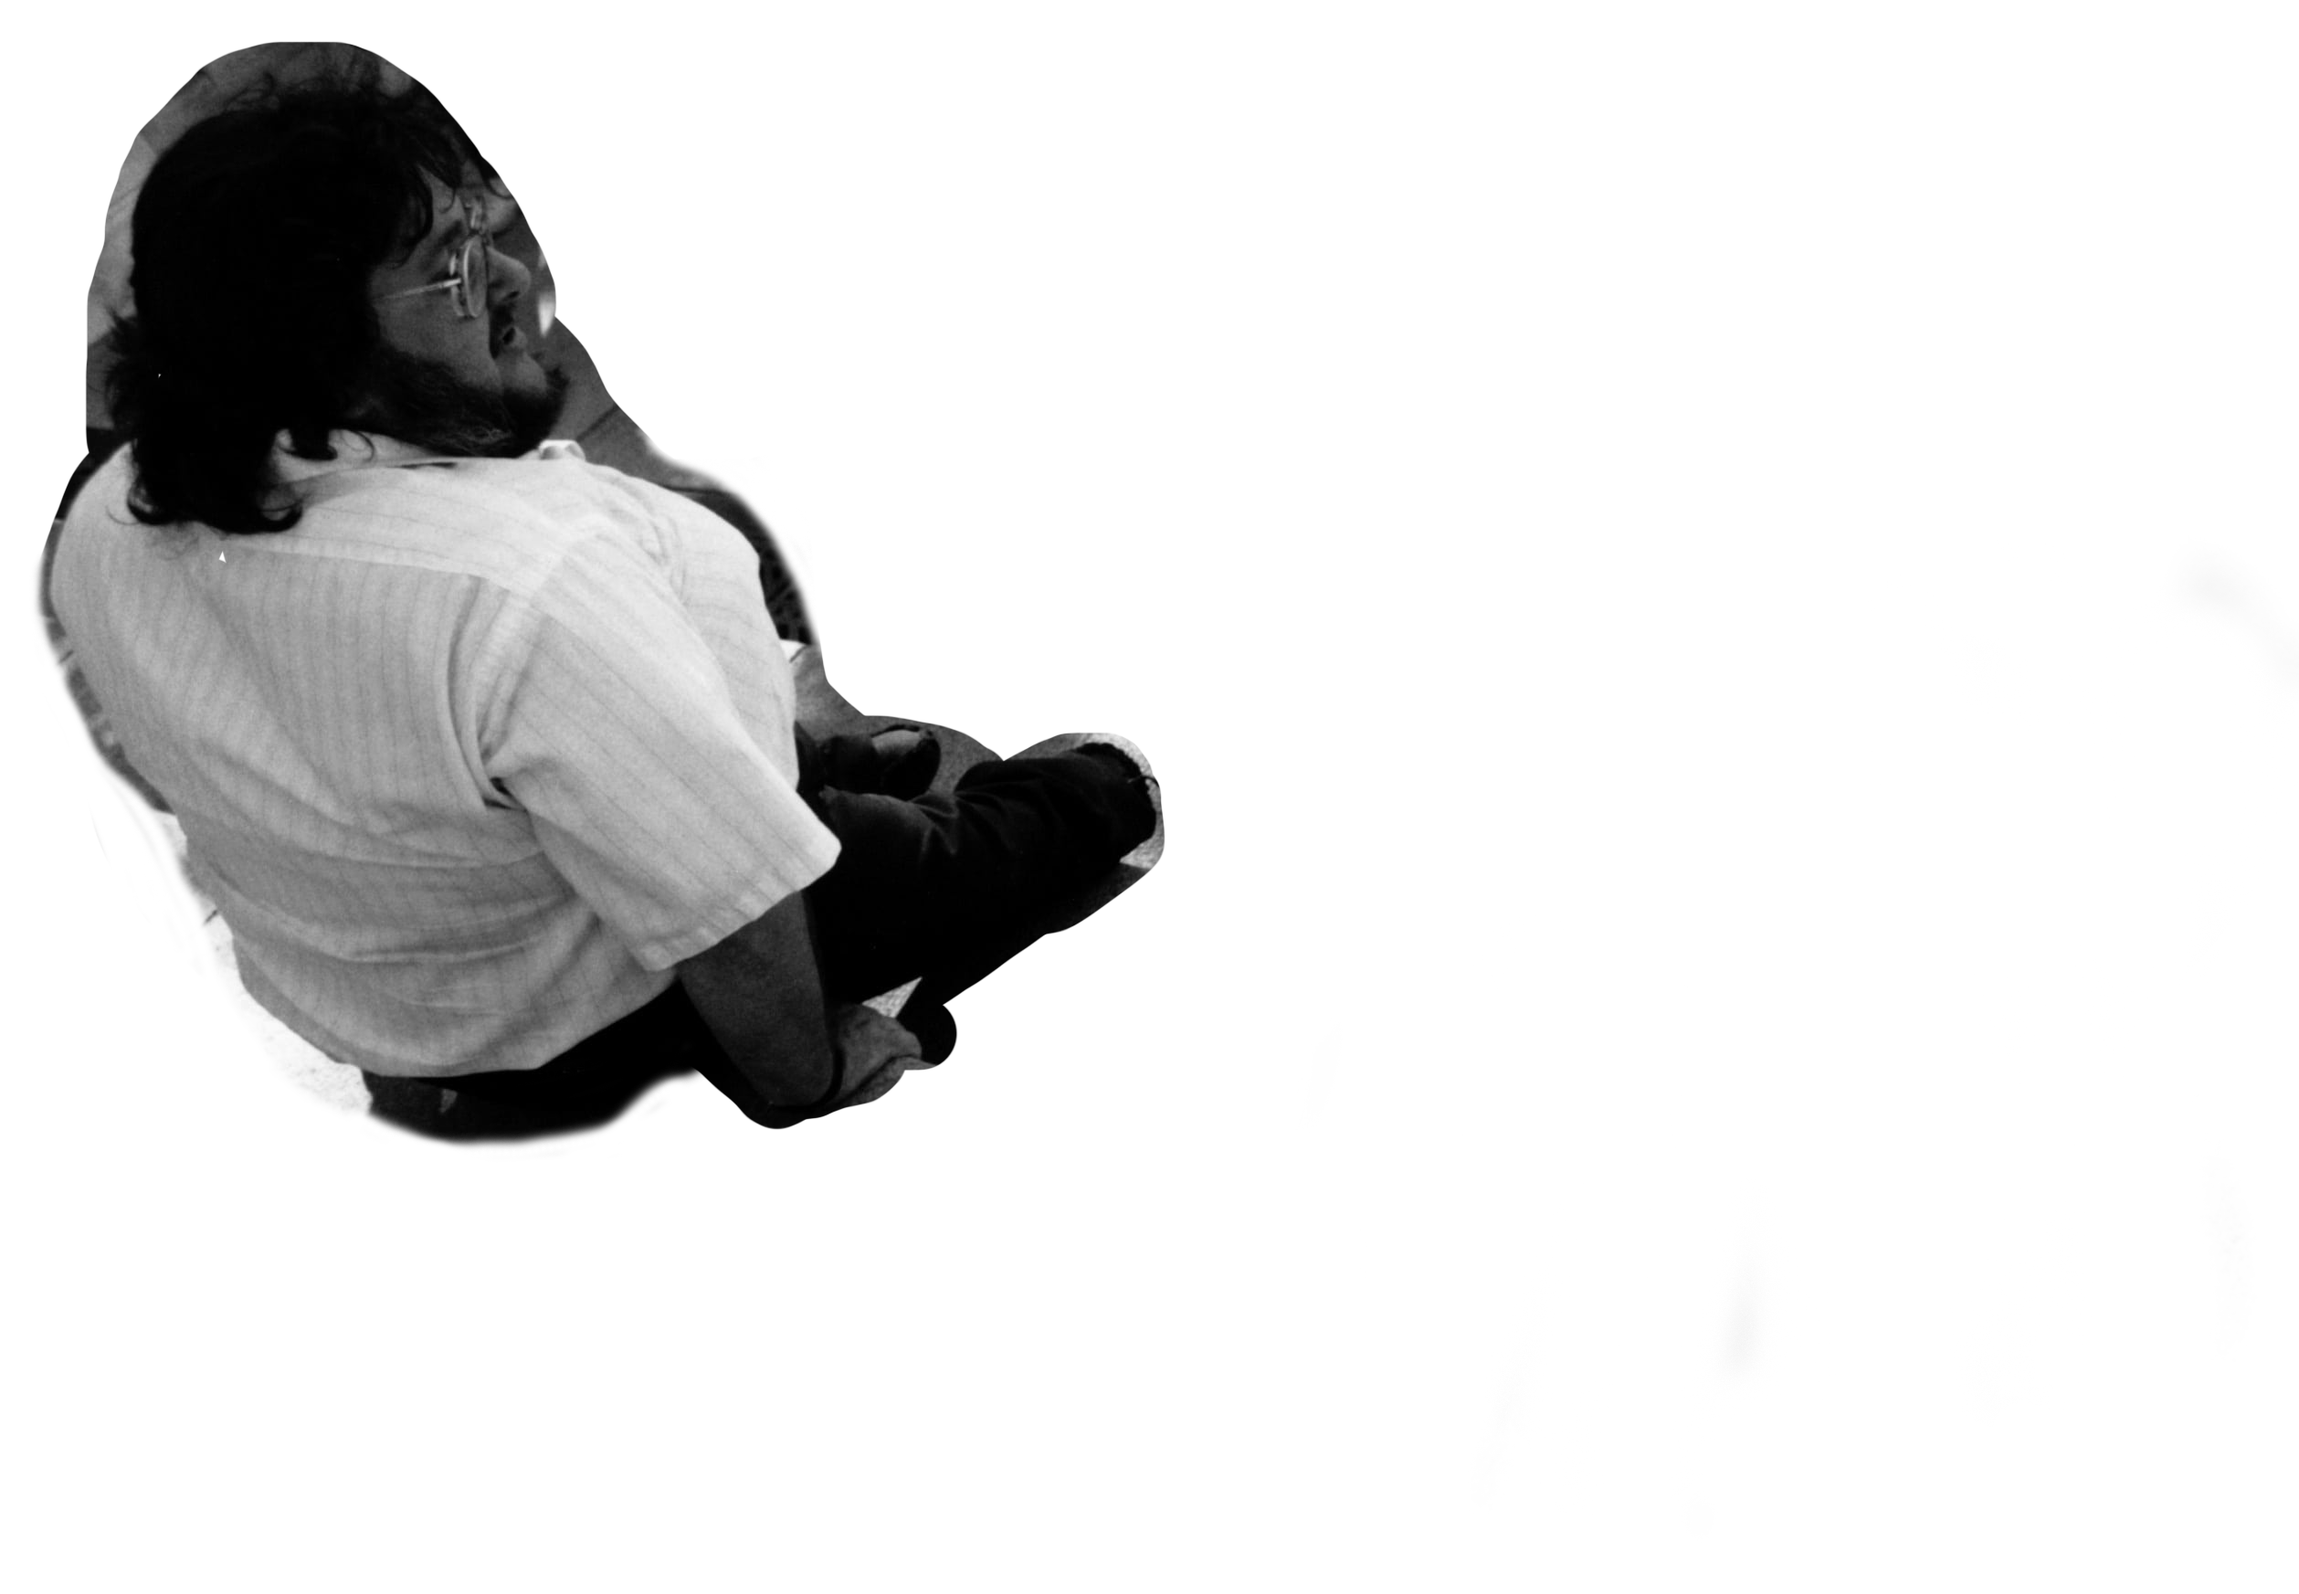
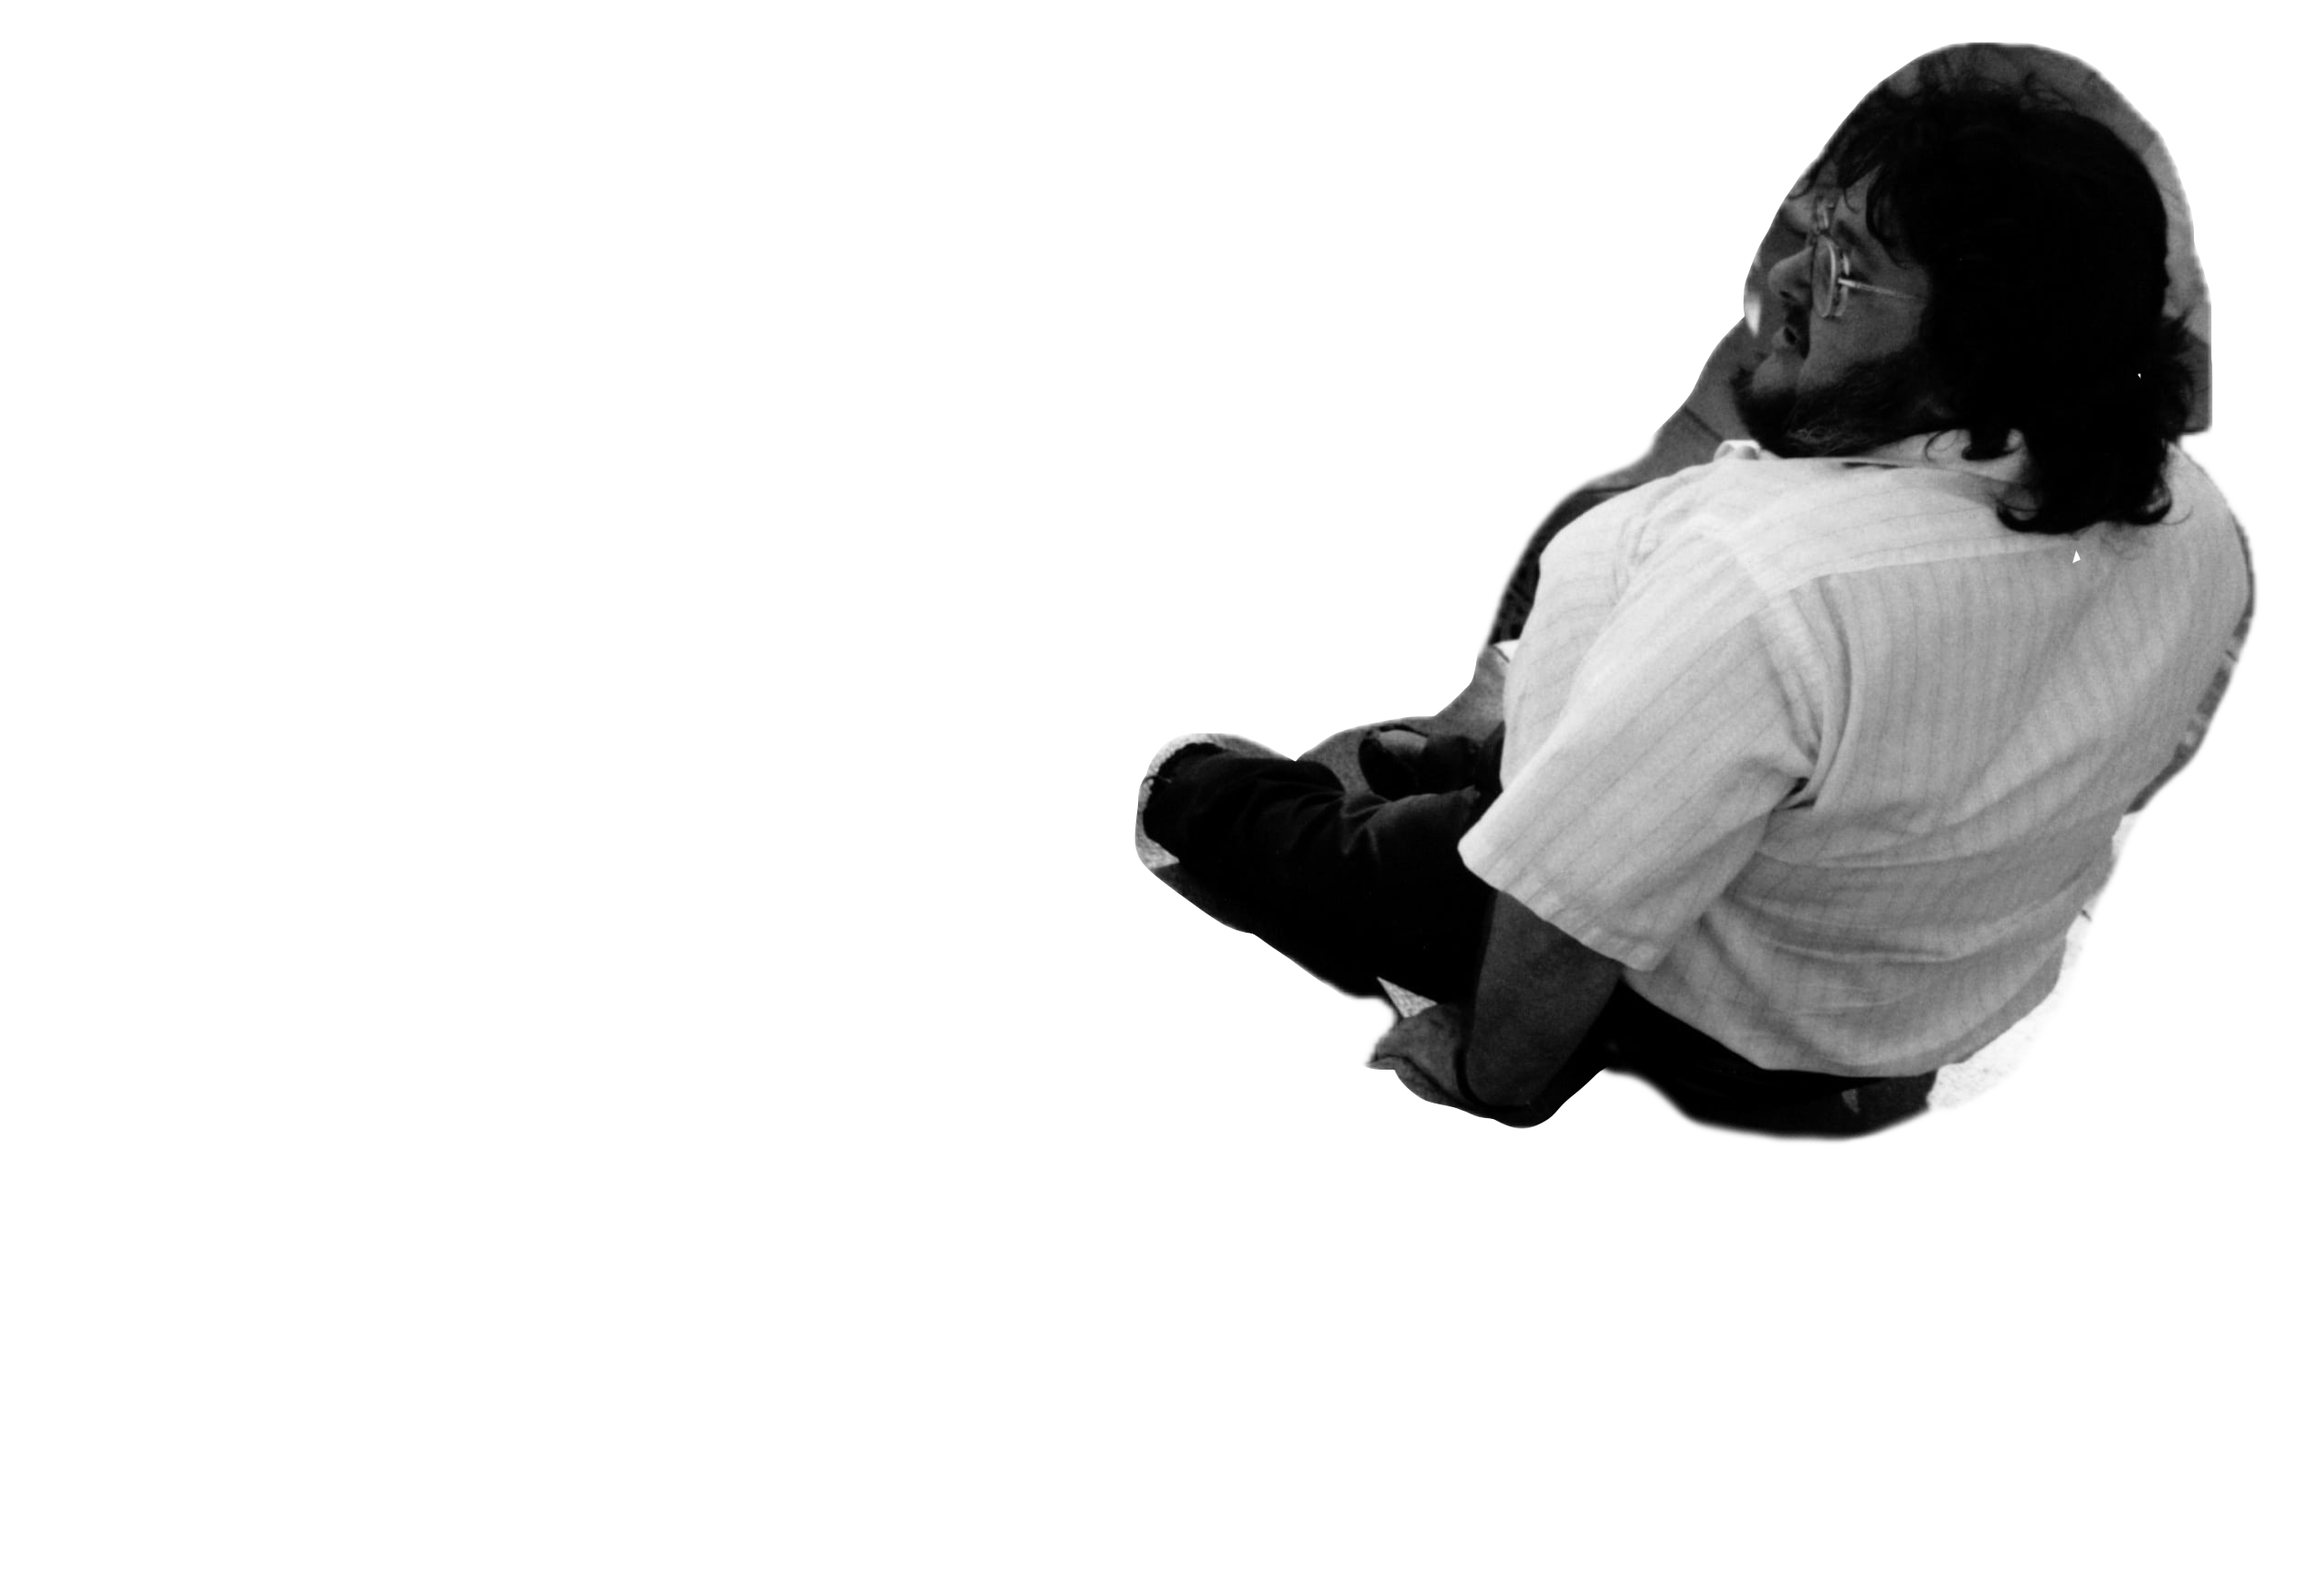
perhaps mayhaps

diff --git a/app.js b/app.js
@@ -38,7 +38,7 @@ const AR_SLIDES = [
   {
     eyebrow: 'Jennifer Keelan Leads the Way',
     text: 'Jennifer Keelan, eight years old and living with cerebral palsy, pulled herself up the marble steps. "I\'ll take all night if I have to," she said. Her image became the defining photograph of the protest.',
-    image: 'images/two.png',
+    image: 'images/six.png',
     subtitle: 'Jennifer Keelan, age eight, crawls up the Capitol steps.',
     audioStart: 'audio/come on jennifer.mp3'
 
@@ -65,13 +65,12 @@ const AR_SLIDES = [
   {
     eyebrow: 'ADA Signed · July 26, 1990',
     text: 'Four months after the Capitol Crawl, President George H.W. Bush signed the Americans with Disabilities Act into law — the most comprehensive disability rights legislation in U.S. history. The steps had worked.',
-    image: 'images/six.png',
+    image: 'images/two.png',
     subtitle: 'The ADA signing ceremony. Disability rights advocates stand nearby.'
   },
   {
     eyebrow: 'Returning to Brookings',
     text: 'The Capitol overlay fades. You are back in front of Brookings Hall. The steps here are part of the same conversation — what does it mean for a public space to be truly accessible? That question is still being answered.',
-    image: 'images/seven.png',
     subtitle: 'The overlay fades. Brookings Hall steps return to view.'
   }
 ];

diff --git a/style.css b/style.css
@@ -627,7 +627,7 @@ body.text-xl #camera-feed {
   transition: opacity 0.7s ease;
   mix-blend-mode: screen;
 }
-.ar-overlay-img.visible { opacity: 0.65; }
+.ar-overlay-img.visible { opacity: 0.75; }
 
 .ar-overlay-placeholder {
   width: 100%;
@@ -1132,4 +1132,58 @@ body.text-xl #camera-feed {
 
 .ar-overlay-placeholder {
   display: none !important;
+}
+
+/* AR mobile layout fix */
+#camera-feed {
+  height: 68vh;
+}
+
+.ar-overlay-area {
+  top: 8vh;
+  height: 42vh;
+  bottom: auto;
+}
+
+.ar-panel {
+  top: 68vh;
+  bottom: 0;
+  max-height: 32vh;
+  overflow-y: auto;
+  padding: 1rem 1.25rem 1.25rem;
+  background: rgba(8, 8, 6, 0.96);
+}
+
+.ar-narrative-text {
+  max-width: none;
+}
+
+
+
+/* Ending page large text fix */
+#page-ending {
+  overflow-y: auto;
+  justify-content: flex-start;
+}
+
+.ending-wrap {
+  padding-top: 3rem;
+  padding-bottom: 4rem;
+}
+
+@media (max-width: 700px) {
+  .ending-cards {
+    grid-template-columns: 1fr;
+  }
+
+  body.text-lg .ending-wrap,
+  body.text-xl .ending-wrap {
+    padding-top: 2rem;
+    padding-bottom: 5rem;
+  }
+
+  body.text-lg .ending-sub,
+  body.text-xl .ending-sub {
+    max-width: 100%;
+  }
 }
